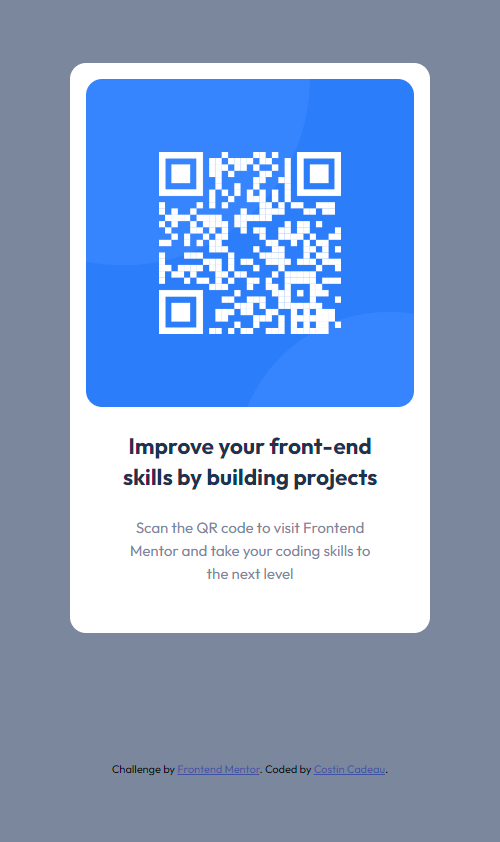
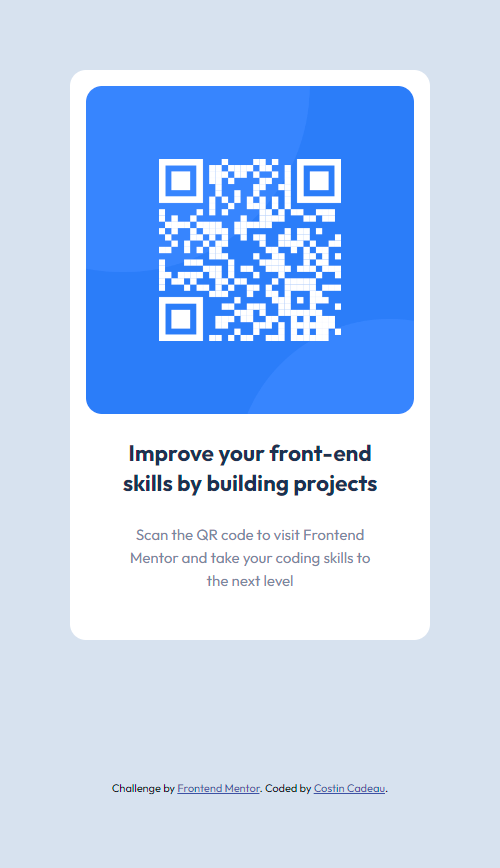
fix background color and screenshots

diff --git a/assets/css/style.css b/assets/css/style.css
@@ -21,7 +21,7 @@
   align-items: center;
   font-family: var(--ff-outfit);
   font-size: var(--fs-default);
-  background: var(--color-grayish-blue);
+  background: var(--color-light-gray);
 }
 
 /* Style Main */
